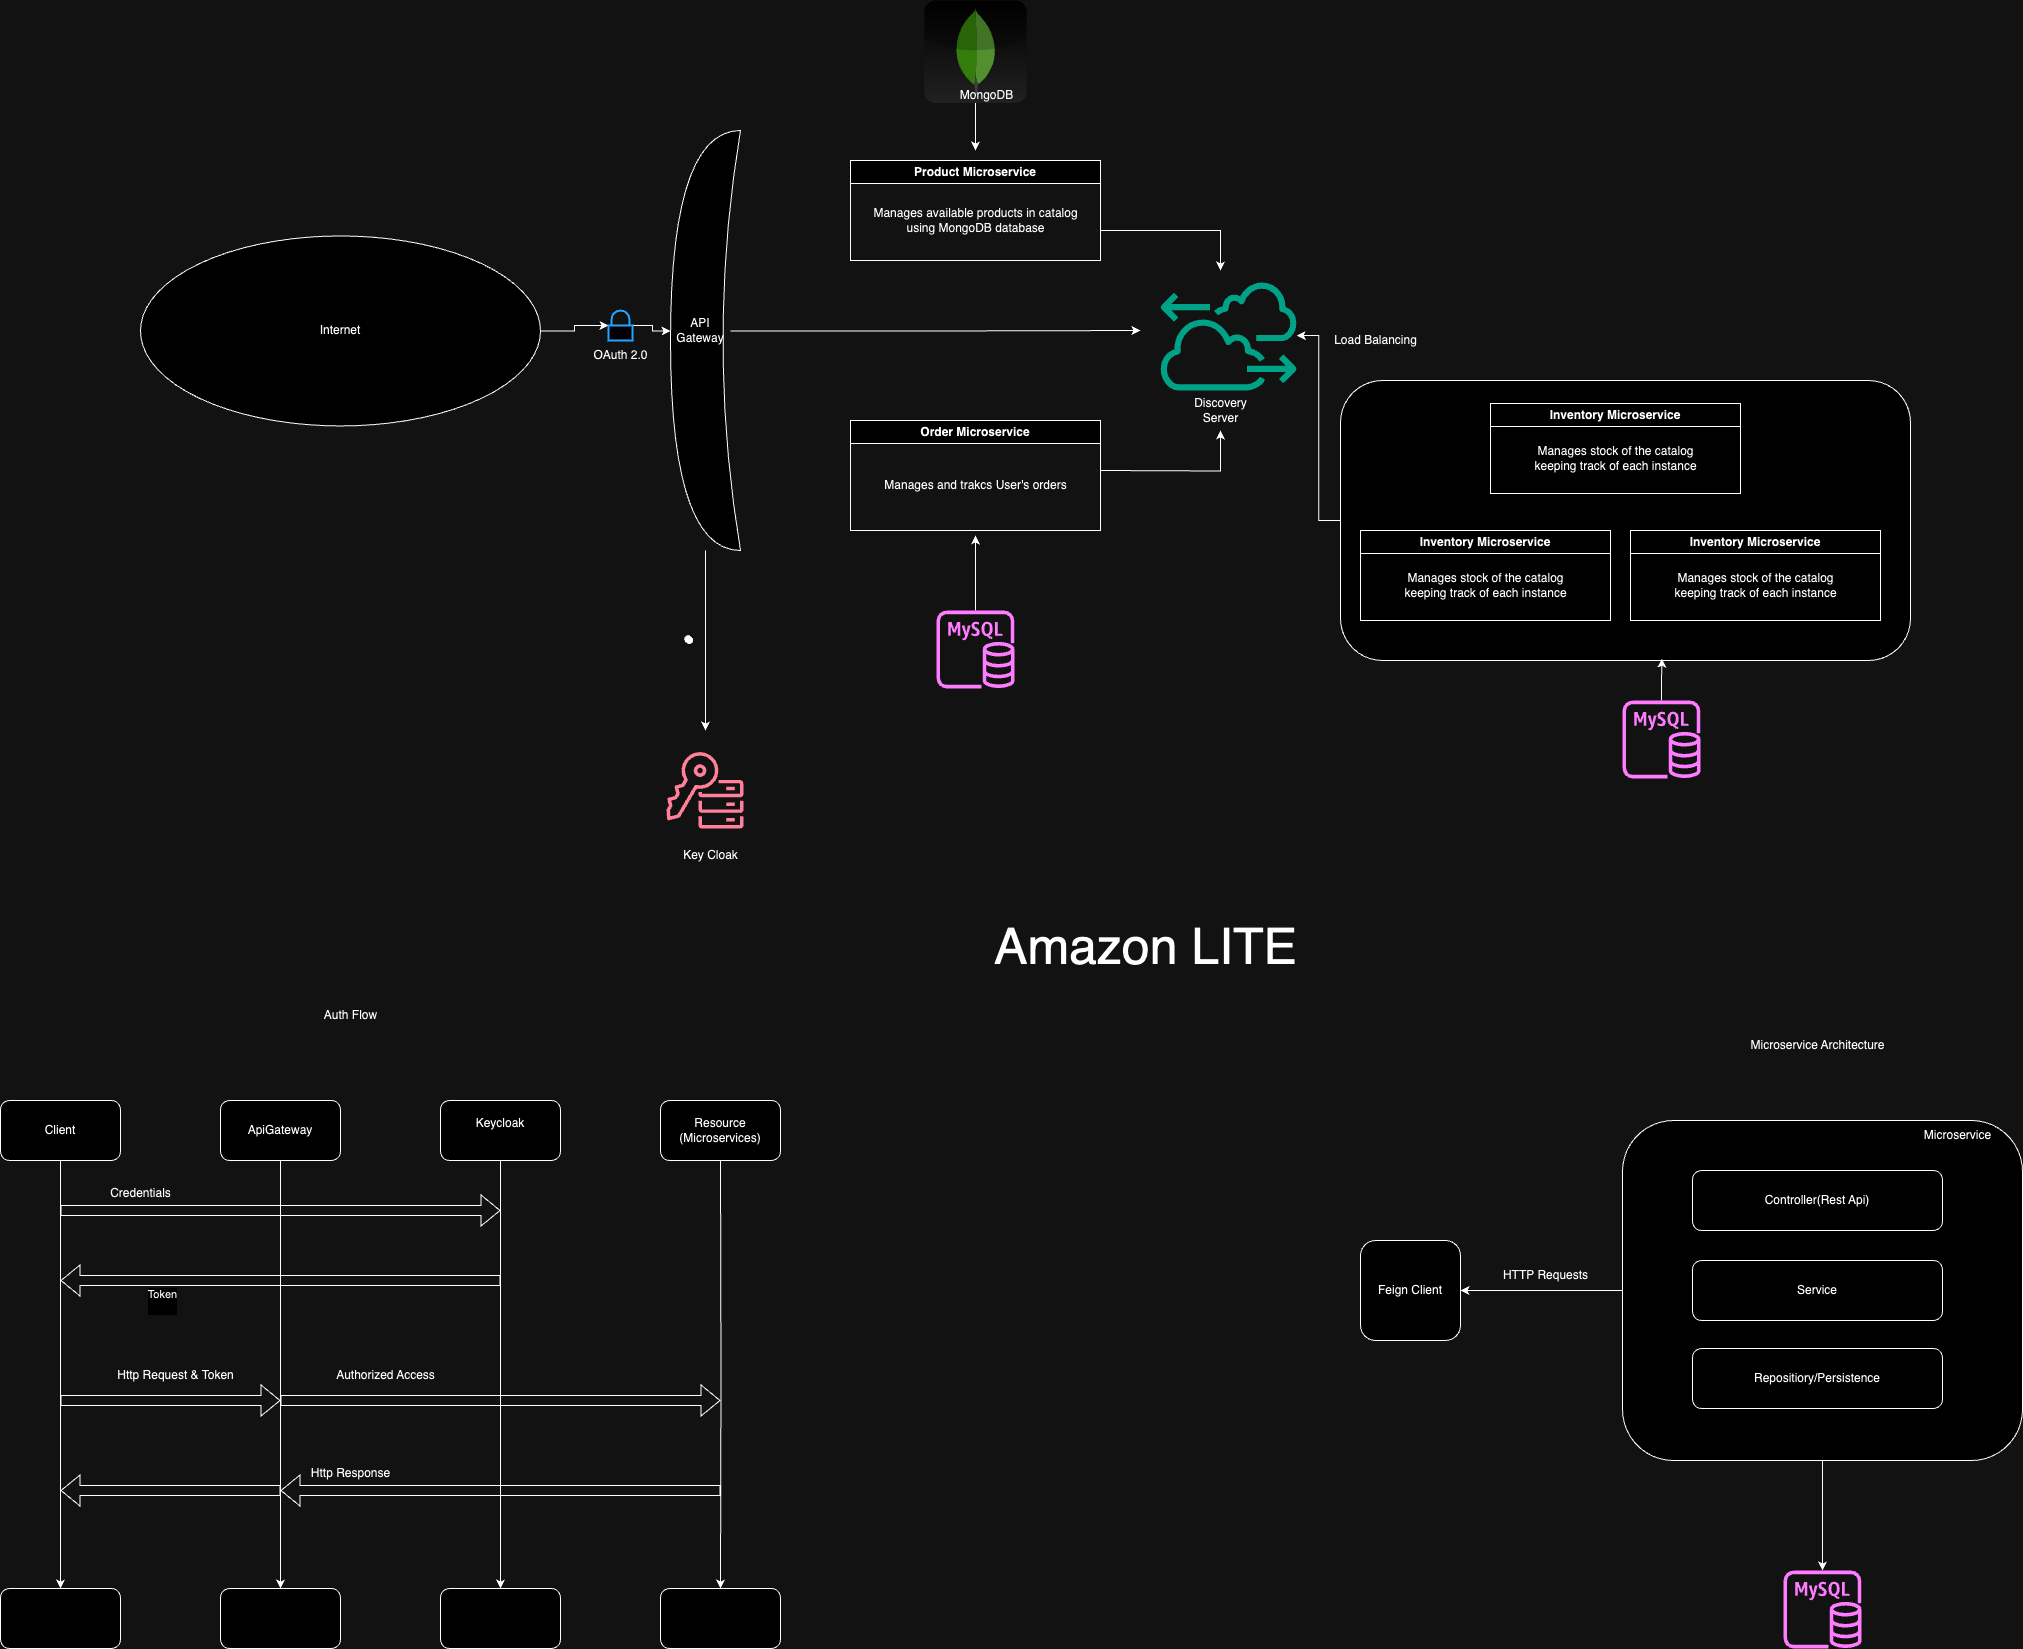
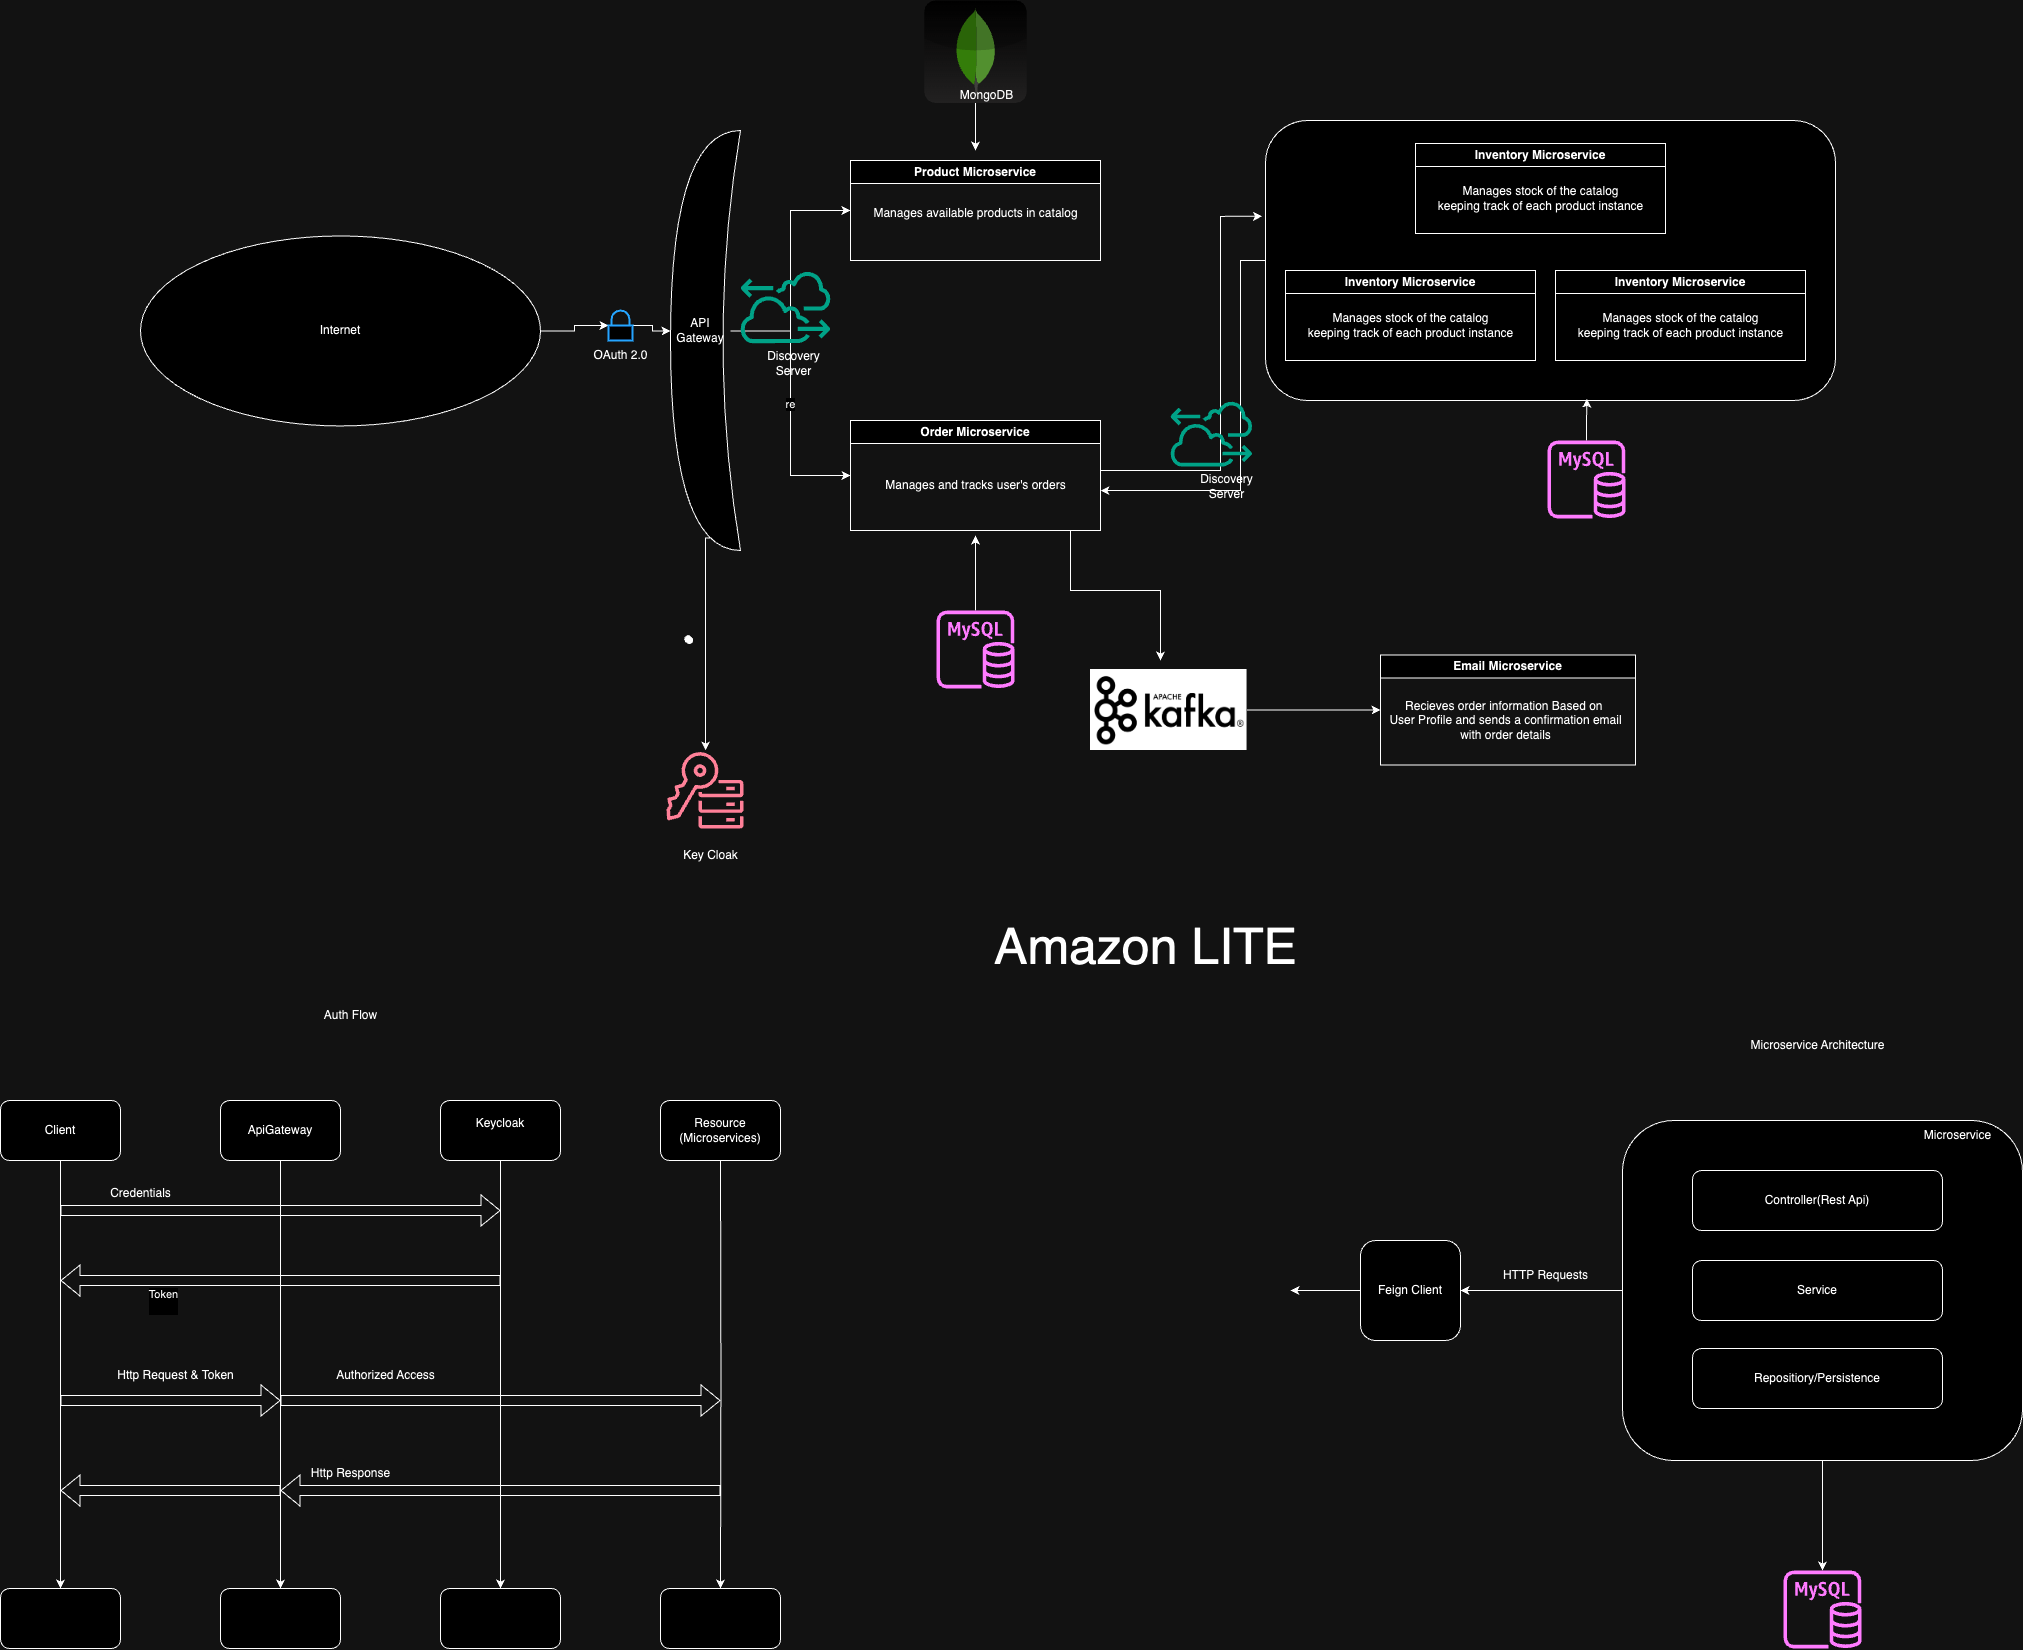
temp

diff --git a/html/amazonLITE.html b/html/amazonLITE.html
@@ -13,11 +13,36 @@
 	<link href="../css/adobe.css" rel="stylesheet">
 </head>
 <body>
+    <section id="description"> 
+            <p id="commands"> A microservice architecture implementation of an ecommerce website  - <b>drag image below to view full diagram</b>
+            </p>
+    </section>
     <script src="https://cdnjs.cloudflare.com/ajax/libs/jquery/3.3.1/jquery.min.js"></script>
     <div id="img"></div>
     <script src="../js/tester.js"></script>
 
-    <h1 style="text-align:center; color: var(--color-text); font-weight:bold; letter-spacing: 1px;">Flow Diagram Above</h1>
-	
+    <section id="description"> 
+        <h1><u>Specs</u></h1>
+        <h2>Internet(External) Access</h2>
+        <p> External applications can access the application using a RESTful API, which routing is determined by the API Gateway
+        </p>
+        <h2>Security</h2>
+        <p> The API Gateway is secured with oauth2.0 where jwt token generation is handled by Keycloak using private credentials.
+            The discovery server also uses in-memory security where passwords are stored as byte-encodings to authenticate users who view the browser interface.
+        </p>
+        <h2>Microservice Communication</h2>
+        <p> Each microservice and the API gateway is connected to a discovery service through http using spring Spring Web. Load balancing between duplicate microservices is done with round robin. Circuit breakers were also
+            implemented between microservices. Kraft (Kafka without zookeeper) was also used to support 
+            email notifications whenever an order was placed.
+        </p>
+        <h2>Data Storage</h2>
+        <p> Each microservice connected to locally hosted databases using spring data jpa, for mysql and mongodb databases.
+        </p>
+
+        <h2>Maintence</h2>
+        <p> Implemented integration testing using Docker Images, logging, and distributed tracing for easier debugging.
+        </p>
+
+    </section>
 </body>
 </html>
